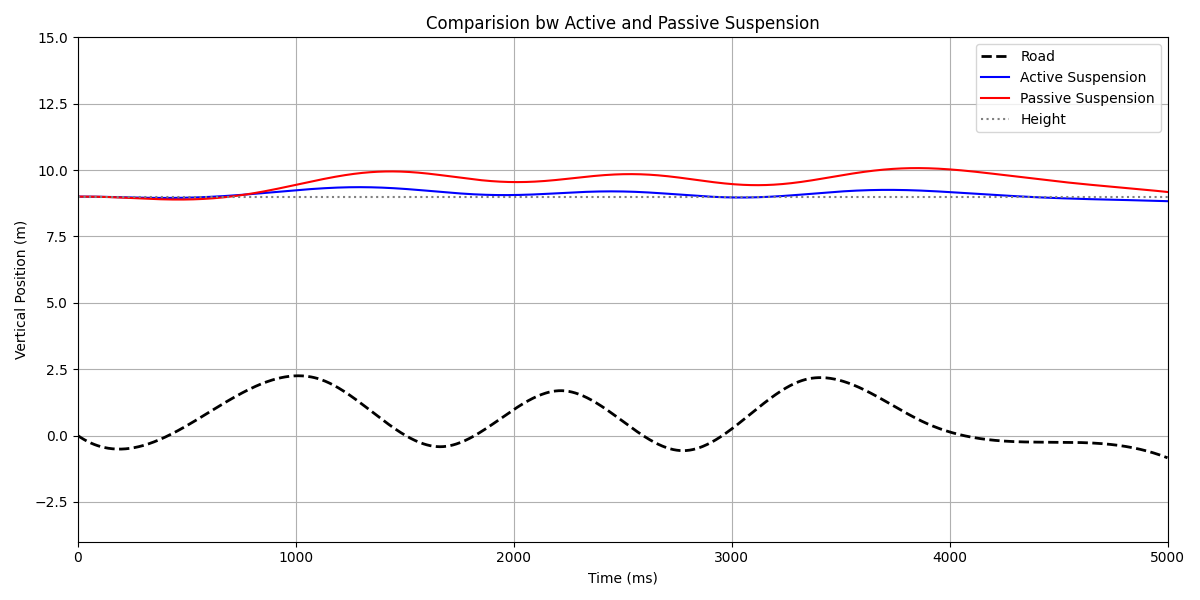
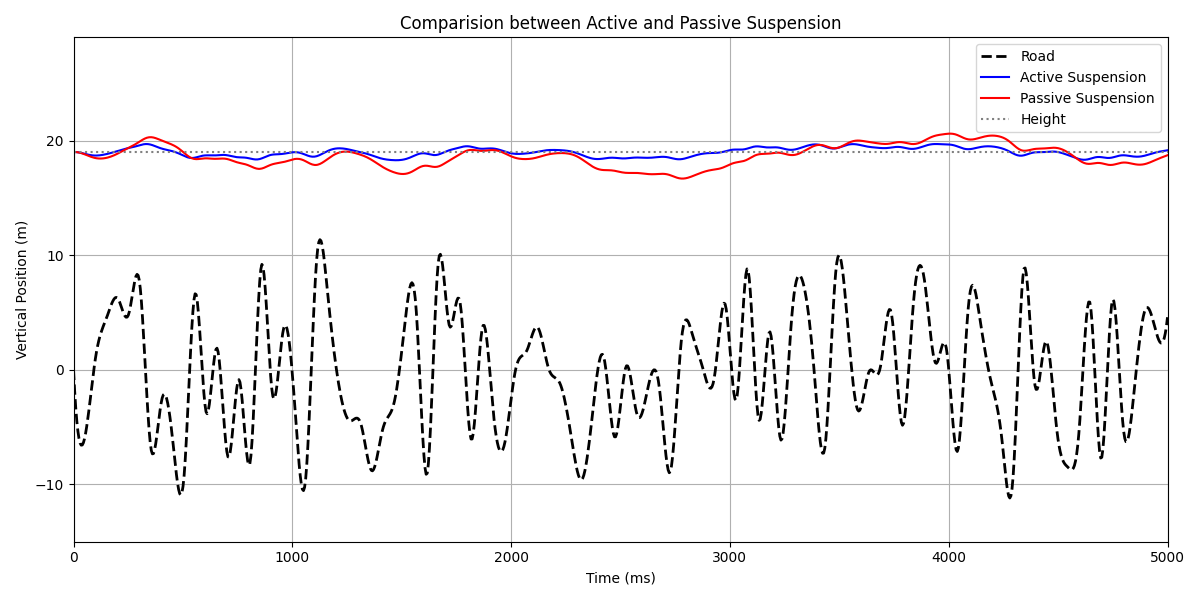
Now able to update road height and noisiness of road easily, and performed optimisations so that output is as intended for any amount of time

diff --git a/Active Suspension.py b/Active Suspension.py
@@ -4,11 +4,15 @@ from scipy.interpolate import make_interp_spline
 import matplotlib.pyplot as plt
 
 # * Constants
-mass = 5.0              # kg
+mass = 5.0             # kg
 spring_constant = 50.0  # N/m
 damping_constant = 50.0 # Ns/m
 g = 10.0                # m/s²
-spring_length = 10.0    # m
+spring_length = 20.0    # m
+
+# * Road Profile
+time_intervals = 100
+height_range = (-10, 10)
 
 # * PID Controller
 Kp = 150
@@ -22,11 +26,11 @@ prev_error = 0
 total_time_ms = 5000
 time_ms = np.linspace(0, total_time_ms, 1000)
 time_s = time_ms / 1000.0
-dt = time_s[1] - time_s[0]
+dt = 0.01
 
 # * Road
-road_x = np.linspace(0, total_time_ms, 10)
-road_y = [0] + [random.uniform(-2.5, 2.5) for _ in range(9)]
+road_x = np.linspace(0, total_time_ms, time_intervals)
+road_y = [0] + [random.uniform(height_range[0], height_range[1]) for _ in range(time_intervals-1)]
 road_spline = make_interp_spline(road_x, road_y)
 road_y = road_spline(time_ms)
 
@@ -69,10 +73,11 @@ plt.plot(time_ms, positions, label="Active Suspension", color='orange')
 plt.axhline(initial_y, color='gray', linestyle=':', label="Height")
 
 plt.xlabel("Time (ms)")
-plt.xlim(0, 5000)
+plt.xlim(0, total_time_ms)
 
 plt.ylabel("Vertical Position (m)")
-plt.ylim(-4, 15)
+plt.ylim(height_range[0]-5, height_range[1]+initial_y)
+plt.yticks(np.arange(height_range[0], height_range[1]+initial_y, step=10))
 
 plt.title("Active Suspension")
 plt.legend()

diff --git a/Passive Suspension.py b/Passive Suspension.py
@@ -4,21 +4,25 @@ from scipy.interpolate import make_interp_spline
 import matplotlib.pyplot as plt
 
 # * Constants
-mass = 5.0              # kg
+mass = 5.0             # kg
 spring_constant = 50.0  # N/m
 damping_constant = 50.0 # Ns/m
 g = 10.0                # m/s²
-spring_length = 10.0    # m
+spring_length = 20.0    # m
+
+# * Road Profile
+time_intervals = 100
+height_range = (-10, 10)
 
 # * Time 
 total_time_ms = 5000
 time_ms = np.linspace(0, total_time_ms, 1000)
 time_s = time_ms / 1000.0
-dt = time_s[1] - time_s[0]
+dt = 0.01
 
 # * Road
-road_x = np.linspace(0, total_time_ms, 10)
-road_y = [0] + [random.uniform(-2.5, 2.5) for _ in range(9)]
+road_x = np.linspace(0, total_time_ms, time_intervals)
+road_y = [0] + [random.uniform(height_range[0], height_range[1]) for _ in range(time_intervals-1)]
 road_spline = make_interp_spline(road_x, road_y)
 road_y = road_spline(time_ms)
 
@@ -53,10 +57,11 @@ plt.plot(time_ms, positions, label="Passive Suspension", color='orange')
 plt.axhline(initial_y, color='gray', linestyle=':', label="Height")
 
 plt.xlabel("Time (ms)")
-plt.xlim(0, 5000)
+plt.xlim(0, total_time_ms)
 
 plt.ylabel("Vertical Position (m)")
-plt.ylim(-4, 15)
+plt.ylim(height_range[0]-5, height_range[1]+initial_y)
+plt.yticks(np.arange(height_range[0], height_range[1]+initial_y, step=10))
 
 plt.title("Passive Suspension")
 plt.legend()

diff --git a/Comparison.py b/Comparison.py
@@ -8,7 +8,11 @@ mass = 5.0             # kg
 spring_constant = 50.0  # N/m
 damping_constant = 50.0 # Ns/m
 g = 10.0                # m/s²
-spring_length = 10.0    # m
+spring_length = 20.0    # m
+
+# * Road Profile
+time_intervals = 100
+height_range = (-10, 10)
 
 # * PID Controller
 Kp = 150
@@ -22,11 +26,11 @@ prev_error = 0
 total_time_ms = 5000
 time_ms = np.linspace(0, total_time_ms, 1000)
 time_s = time_ms / 1000.0
-dt = time_s[1] - time_s[0]
+dt = 0.01
 
 # * Road
-road_x = np.linspace(0, total_time_ms, 10)
-road_y = [0] + [random.uniform(-2.5, 2.5) for _ in range(9)]
+road_x = np.linspace(0, total_time_ms, time_intervals)
+road_y = [0] + [random.uniform(height_range[0], height_range[1]) for _ in range(time_intervals-1)]
 road_spline = make_interp_spline(road_x, road_y)
 road_y = road_spline(time_ms)
 
@@ -92,10 +96,11 @@ plt.plot(time_ms, passive_position, label="Passive Suspension", color='red')
 plt.axhline(initial_y, color='gray', linestyle=':', label="Height")
 
 plt.xlabel("Time (ms)")
-plt.xlim(0, 5000)
+plt.xlim(0, total_time_ms)
 
 plt.ylabel("Vertical Position (m)")
-plt.ylim(-4, 15)
+plt.ylim(height_range[0]-5, height_range[1]+initial_y)
+plt.yticks(np.arange(height_range[0], height_range[1]+initial_y, step=10))
 
 plt.title("Comparision between Active and Passive Suspension")
 plt.legend()

diff --git a/README.MD b/README.MD
@@ -17,11 +17,14 @@ This is a simulation of a quarter vehicles suspension as it is subjected to a ra
 
 ### Constants
 These values in the *constant* can be changed to create differet simulations
-- Mass
-- Spring Constant
-- Damping Constant
-- Gravitational Constant
-- Spring Length
+- Mass [`mass`]
+- Spring Constant [`spring_constant`]
+- Damping Constant [`damping_constant`]
+- Gravitational Constant [`g`]
+- Spring Length [`spring_length`]
+- Time [`total_time_ms`]
+- Time Intervals (Increased value increases the *noisiness* of the road profile) [`time_intervals`]
+- Road Height range [`height_range`]
 
 These are only for the PID Controller
 - Proportional Gain (Kp)
